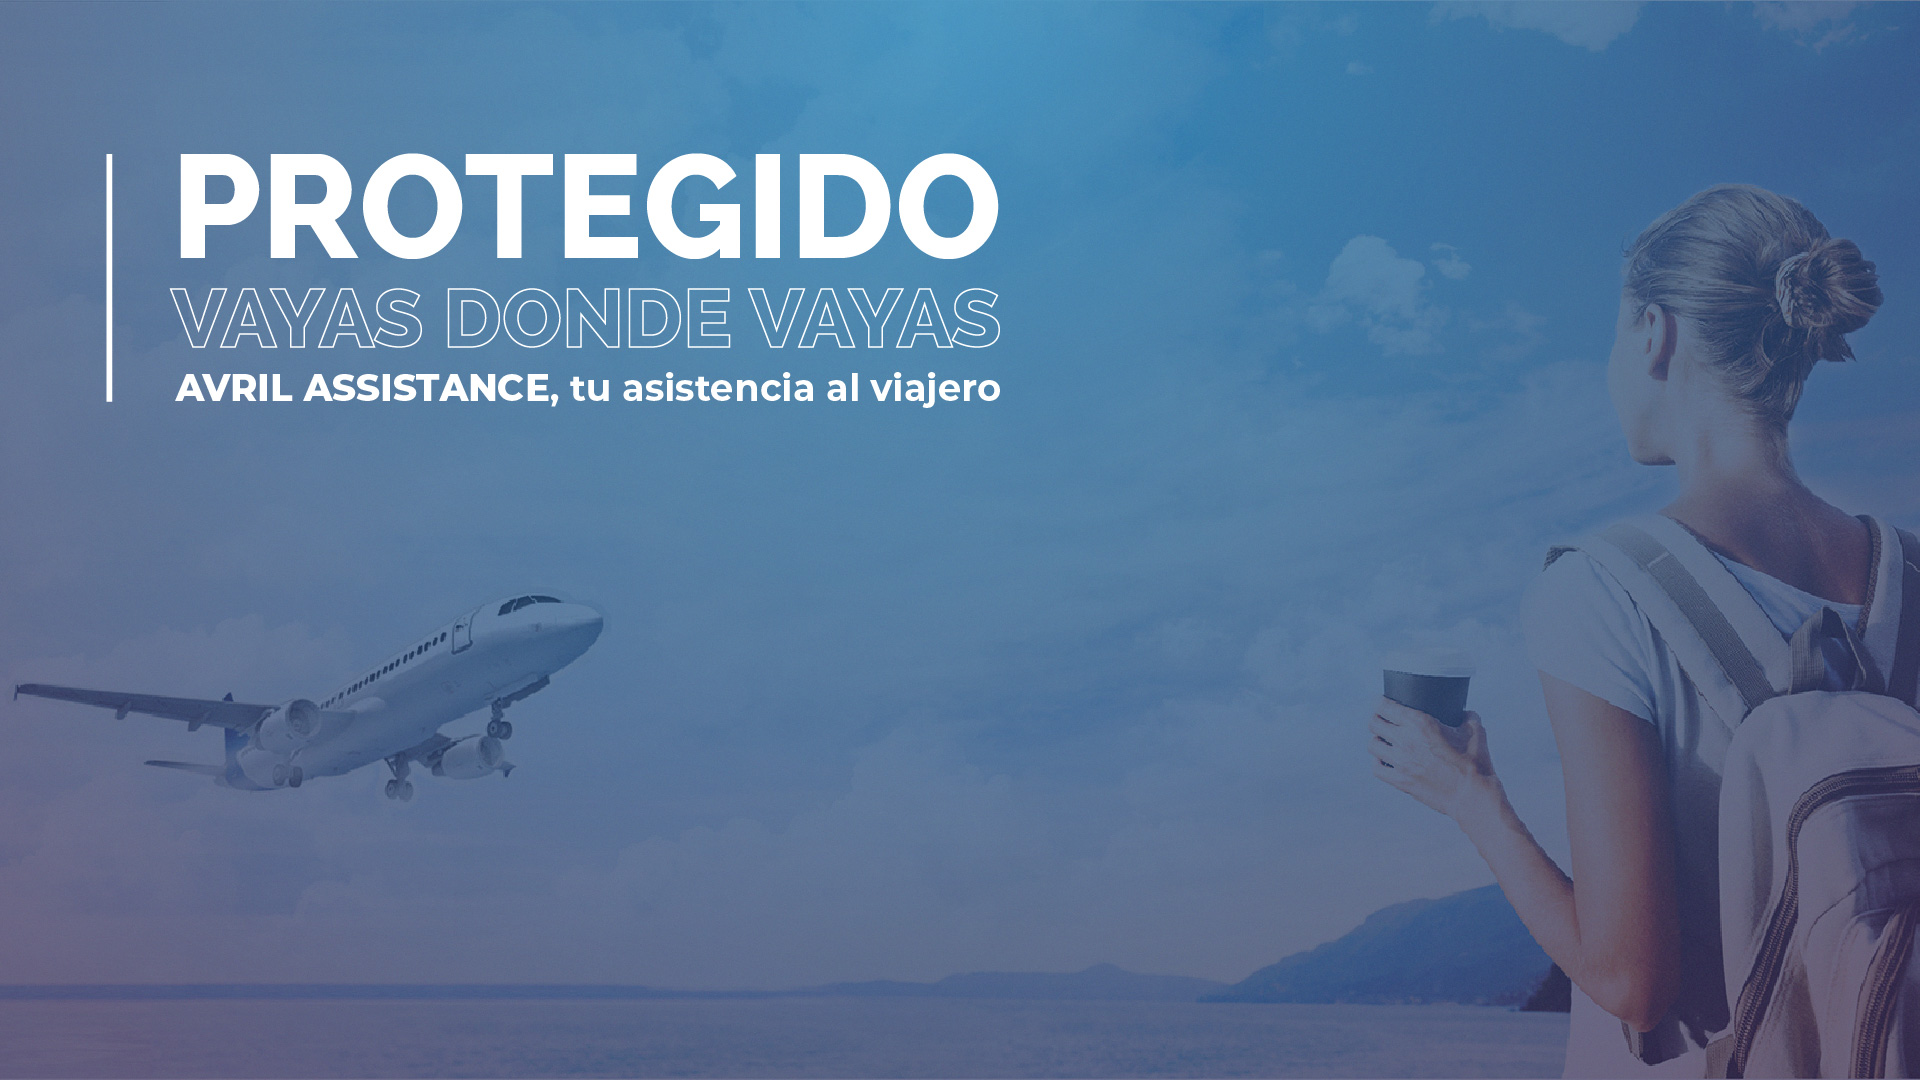
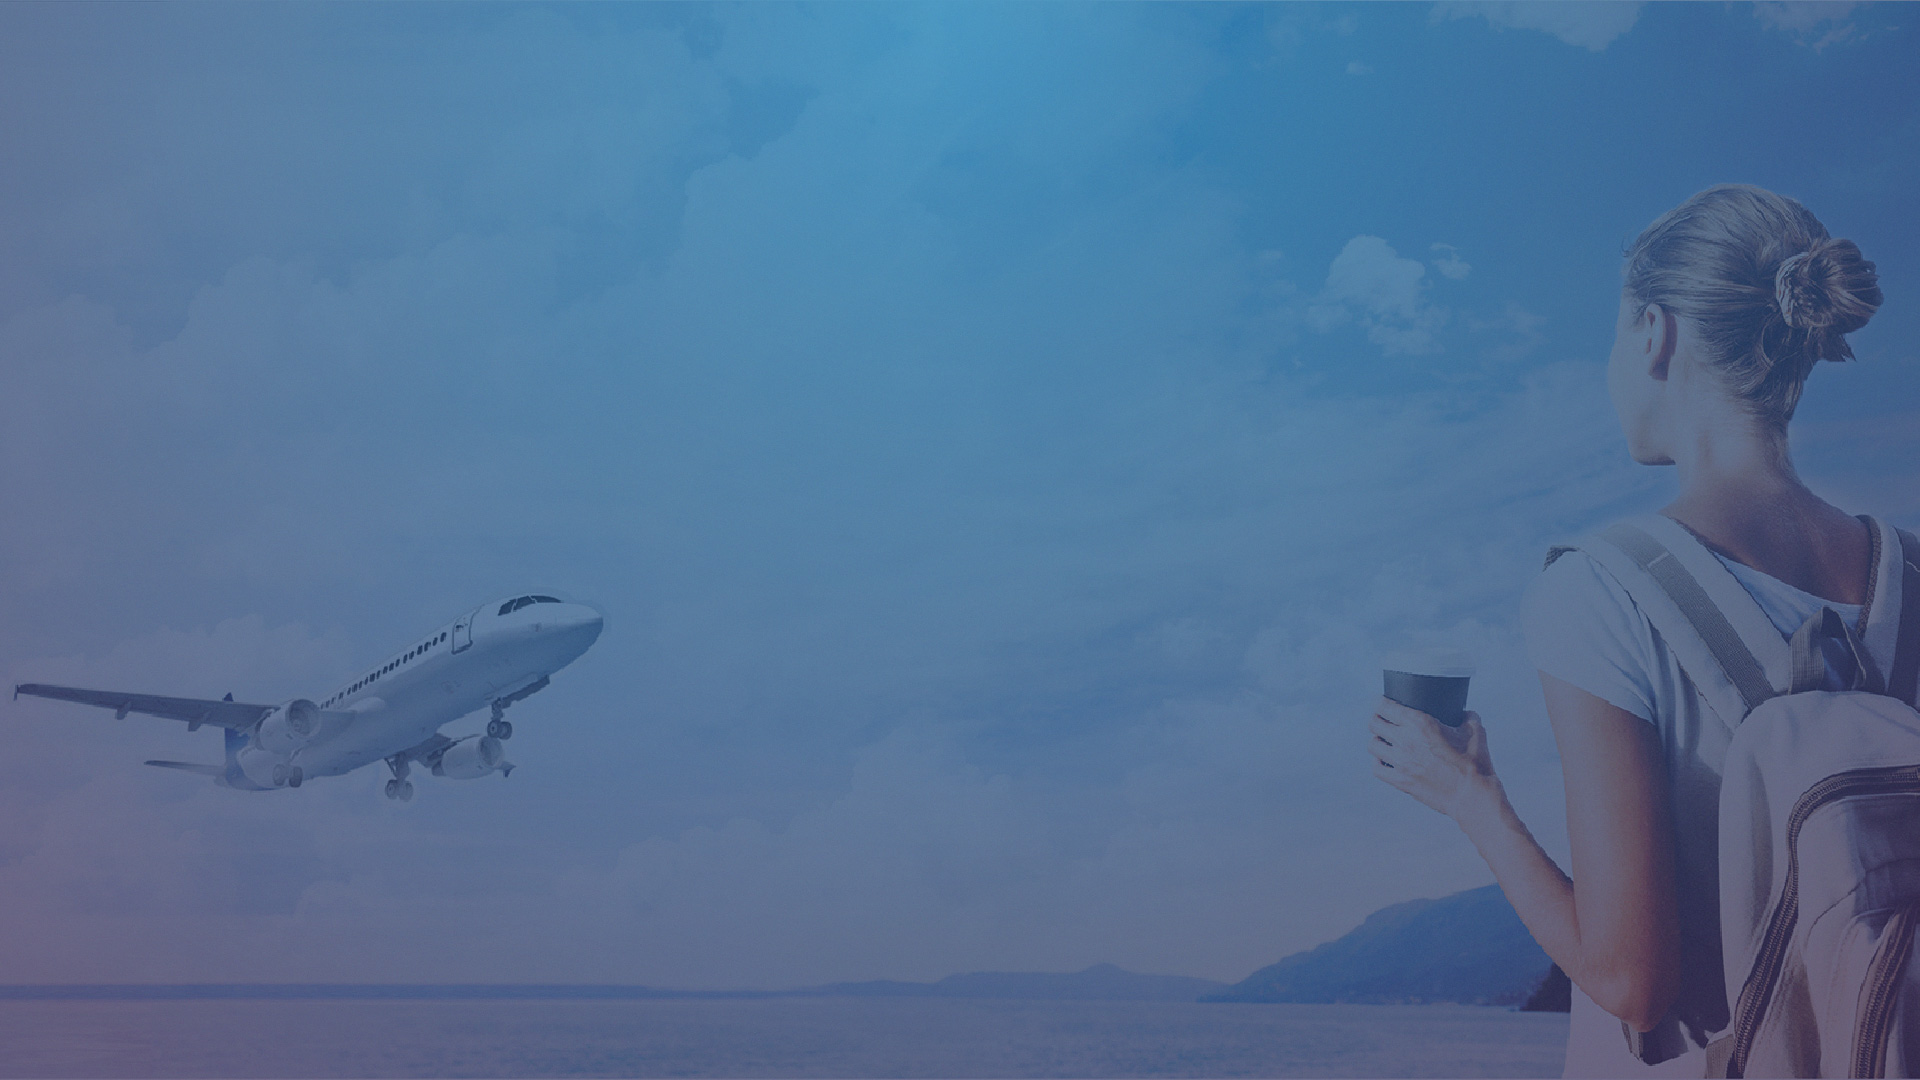
centered slider

Changed region(s): [[0.0938, 0.1222, 0.5312, 0.2444], [0.0938, 0.275, 0.5312, 0.3972], [0.0312, 0.1528, 0.0625, 0.3667]]

diff --git a/avrilPlantilla/index.html b/avrilPlantilla/index.html
@@ -96,21 +96,23 @@
 						</span>
 					</div>-->
 				</div>
-				<div class="carousel-item">
+				<!-- <div class="carousel-item">
 					<img class="d-block w-100" src="./images/slider/slider-2.jpg" alt="Second slide">
 					<div class="carousel-caption d-none d-md-block">
 						<span class="mb-5">
 							<img src="./images/middle.png" width="65%" height="auto" alt="middle">
 						</span>
 					</div>
-				</div>
+				</div> -->
 				<div class="carousel-item">
-					<img class="d-block w-100" src="./images/slider/slider-3.jpg" alt="Second slide">
-					<!-- <div class="carousel-caption d-none d-md-block">
+					<a href="#reintegros">
+						<img class="d-block w-100" src="./images/slider/slider-3.jpg" alt="Second slide">
+					</a>
+					<div class="carousel-caption d-none d-md-block">
 						<span class="mb-5">
 							<img src="./images/middle.png" width="65%" height="auto" alt="middle">
 						</span>
-					</div> -->
+					</div>
 				</div>
 				
 			</div>

diff --git a/avrilPlantilla/intro-2.html b/avrilPlantilla/intro-2.html
@@ -318,8 +318,8 @@
 	<!-- footer Start -->
 	<section class="section footer">
 		<div class="container">
-			<div class="row">
-				<div class="col-lg-3">
+			<div class="d-flex justify-content-center">
+				<div class="flex-grow-1">
 					<div class="logo mb-4">
 						<h3 class="text-white text-uppercase">avril assistance</span></h3>
 					</div>
@@ -356,7 +356,7 @@
 						</a>
 					</p>
 				</div> -->
-				<div class="col-lg-3 col-md-6 col-sm-6">
+				<div class="flex-grow-1">
 					<h4 class="mb-4 text-white text-uppercase">servicios</h4>
 					
 					<ul class="list-unstyled footer-menu lh-35">
@@ -365,7 +365,7 @@
 						<li><a href="#">Folleto Comercial</a></li>
 					</ul>
 				</div>
-				<div class="col-lg-3 col-md-6 col-sm-6">
+				<div class="flex-grow-1">
 					<h4 class="mb-4 text-white text-uppercase">menu</h4>
 
 					<ul class="list-unstyled footer-menu lh-35">
